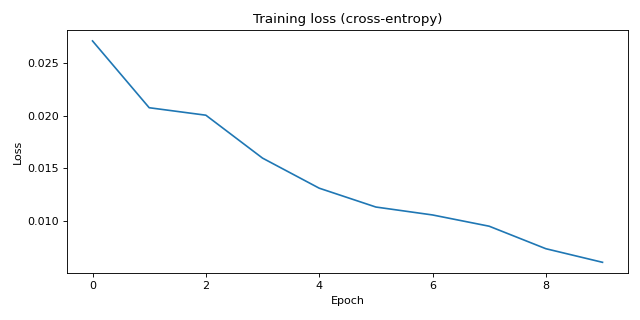
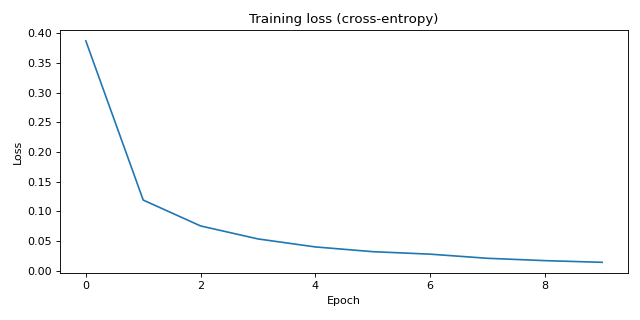
Modified TensorNode logic for converting neuron types to differentiable equivalents

diff --git a/nengo_dl/tensor_node.py b/nengo_dl/tensor_node.py
@@ -424,6 +424,12 @@ class Layer:
     Supports both ``nn.Module`` layers (Conv2d, Linear, etc.) and Nengo
     ``NeuronType`` objects (LIF, RectifiedLinear, etc.) as activation layers.
 
+    For NeuronType layers, the default behavior is to create a
+    ``nengo.Ensemble`` with the given neuron type, which preserves spiking
+    behavior during inference.  Pass ``use_rate=True`` to convert the neuron
+    type to a differentiable rate-approximation module instead (useful when
+    backpropagating through the activation layer during training).
+
     Examples
     --------
     ::
@@ -434,21 +440,31 @@ class Layer:
             # Convolutional layer (PyTorch Conv2d)
             x = nengo_dl.Layer(nn.Conv2d(1, 32, 3))(inp, shape_in=(28, 28, 1))
 
-            # Neuron activation layer
+            # Neuron activation layer — preserves spiking (default)
             x = nengo_dl.Layer(nengo.LIF(amplitude=0.01))(x)
+
+            # Neuron activation layer — differentiable rate approximation
+            x = nengo_dl.Layer(nengo.LIF(amplitude=0.01), use_rate=True)(x)
 
             # Linear readout
             out = nengo_dl.Layer(nn.Linear(21632, 10))(x)
     """
 
-    def __init__(self, layer):
+    def __init__(self, layer, use_rate: bool = False):
         """
         Parameters
         ----------
         layer : nn.Module or NeuronType
             The layer or activation to apply.
+        use_rate : bool, optional
+            Only relevant for ``NeuronType`` layers.  If ``True``, convert the
+            neuron type to a differentiable rate-approximation ``nn.Module``
+            (the previous default behaviour).  If ``False`` (default), create
+            a ``nengo.Ensemble`` using the neuron type directly, which
+            preserves spiking dynamics during inference.
         """
         self.layer = layer
+        self.use_rate = use_rate
 
     def __call__(
         self,
@@ -458,7 +474,7 @@ class Layer:
         synapse=None,
         label: Optional[str] = None,
         transform=1,
-    ) -> TorchNode:
+    ):
         """Apply the layer to a Nengo object.
 
         Parameters
@@ -479,8 +495,12 @@ class Layer:
 
         Returns
         -------
-        TorchNode
-            The created node (which can be used as input to further layers).
+        TorchNode or nengo.ensemble.Neurons
+            For ``nn.Module`` inputs: a ``TorchNode``.
+            For ``NeuronType`` inputs with ``use_rate=False`` (default): the
+            ``.neurons`` view of the created ``nengo.Ensemble``.
+            For ``NeuronType`` inputs with ``use_rate=True``: a ``TorchNode``
+            wrapping the rate-approximation module.
         """
         layer = self.layer
 
@@ -500,20 +520,33 @@ class Layer:
 
         # Handle NeuronType (activation layer)
         if isinstance(layer, nengo.neurons.NeuronType):
-            module = neuron_type_to_module(layer)
-            size_out = size_in
-            shape_out = shape_in
-
-            node = TorchNode(
-                module,
-                size_in=size_in,
-                size_out=size_out,
-                shape_in=shape_in,
-                shape_out=shape_out,
-                label=label or f"Layer({type(layer).__name__})",
-            )
-            nengo.Connection(nengo_input, node, synapse=synapse, transform=transform)
-            return node
+            if self.use_rate:
+                # Explicit rate mode: convert to differentiable rate module
+                module = neuron_type_to_module(layer)
+                size_out = size_in
+                shape_out = shape_in
+                node = TorchNode(
+                    module,
+                    size_in=size_in,
+                    size_out=size_out,
+                    shape_in=shape_in,
+                    shape_out=shape_out,
+                    label=label or f"Layer({type(layer).__name__})",
+                )
+                nengo.Connection(nengo_input, node, synapse=synapse, transform=transform)
+                return node
+            else:
+                # Default: create Ensemble with the actual neuron type so that
+                # spiking behaviour is preserved during inference.
+                ens = nengo.Ensemble(
+                    n_neurons=size_in,
+                    dimensions=1,
+                    neuron_type=layer,
+                    label=label or f"Layer({type(layer).__name__})",
+                )
+                nengo.Connection(nengo_input, ens.neurons, synapse=synapse,
+                                 transform=transform)
+                return ens.neurons
 
         # Handle nn.Module layers
         if isinstance(layer, nn.Module):

diff --git a/nengo_dl/tests/test_tensor_node.py b/nengo_dl/tests/test_tensor_node.py
@@ -154,10 +154,18 @@ class TestLayer:
         assert out_node.size_out == 8
 
     def test_layer_with_neuron_type(self):
-        """Layer(RectifiedLinear) applies activation to existing node."""
+        """Layer(RectifiedLinear) creates an Ensemble that preserves spiking."""
         with nengo.Network(seed=0) as net:
             inp = nengo.Node(np.zeros(6))
             act = nengo_dl.Layer(nengo.RectifiedLinear())(inp)
+        assert not isinstance(act, TorchNode)
+        assert act.size_out == 6
+
+    def test_layer_with_neuron_type_use_rate(self):
+        """Layer(RectifiedLinear, use_rate=True) creates a rate TorchNode."""
+        with nengo.Network(seed=0) as net:
+            inp = nengo.Node(np.zeros(6))
+            act = nengo_dl.Layer(nengo.RectifiedLinear(), use_rate=True)(inp)
         assert isinstance(act, TorchNode)
         assert act.size_out == 6
 